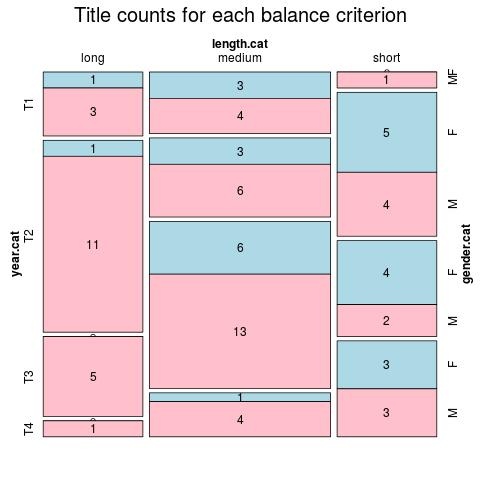
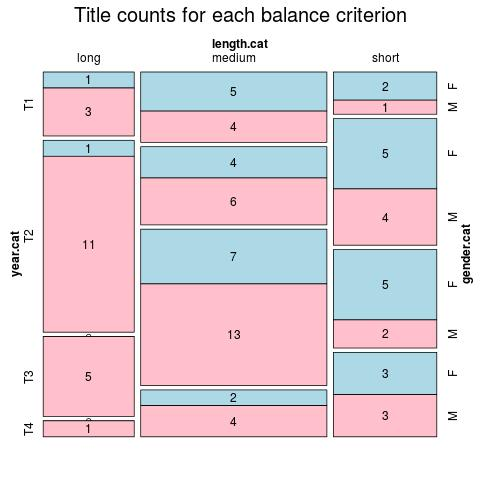
update

diff --git a/ELTeC/fra/index.html b/ELTeC/fra/index.html
@@ -5,7 +5,7 @@
       <title>Contents of ELTeC-fra</title>
    </head>
    <body>
-      <h4>On 2019-10-01 fra has 84 texts containing 6517521 words</h4>
+      <h4>On 2019-10-03 fra has 92 texts containing 6939456 words</h4>
       <p class="graphic"><img src="mosaic.png"><input type="button" value="Explainer" onclick="window.open('../explainer.html','popUpWindow',         'height=600,width=500,left=100,top=100,resizable=yes,         scrollbars=yes,toolbar=no,menubar=no,location=no,directories=no, status=yes');"></p>
       <p class="explain">Click on a column heading to sort. Click on a text identifier to read the text (may
          not work in older browsers).
@@ -868,6 +868,18 @@
             <td>low</td>
          </tr>
          <tr>
+            <td><a href="FRA18430.html">FRA18430</a></td>
+            <td>eltec-0</td>
+            <td></td>
+            <td>15058</td>
+            <td>(short) </td>
+            <td>????  (T1) </td>
+            <td>Hervé : ELTeC edition</td>
+            <td>Stern, Daniel (Marie d'Agoult)(1805-1876)</td>
+            <td>F</td>
+            <td>low</td>
+         </tr>
+         <tr>
             <td><a href="FRA18440.html">FRA18440</a></td>
             <td>eltec-0</td>
             <td>332</td>
@@ -880,6 +892,30 @@
             <td>low</td>
          </tr>
          <tr>
+            <td><a href="FRA18460.html">FRA18460</a></td>
+            <td>eltec-0</td>
+            <td></td>
+            <td>65549</td>
+            <td>(medium) </td>
+            <td>????  (T1) </td>
+            <td>Nélida : ELTeC edition</td>
+            <td>Stern, Daniel (Marie d'Agoult)(1805-1876)</td>
+            <td>F</td>
+            <td>low</td>
+         </tr>
+         <tr>
+            <td><a href="FRA18520.html">FRA18520</a></td>
+            <td>eltec-0</td>
+            <td></td>
+            <td>68770</td>
+            <td>(medium) </td>
+            <td>????  (T1) </td>
+            <td>Marguerite, ou Deux amours : ELTeC edition</td>
+            <td>Girardin, Delphine de (Delphine Gay)(1804-1855)</td>
+            <td>F</td>
+            <td>high</td>
+         </tr>
+         <tr>
             <td><a href="FRA18520.html">FRA18520</a></td>
             <td>eltec-0</td>
             <td></td>
@@ -890,6 +926,32 @@
             <td>Carraud, Zulma (1796-1889)</td>
             <td>F</td>
             <td>high</td>
+         </tr>
+         <tr>
+            <td><a href="FRA18550.html">FRA18550</a></td>
+            <td>eltec-0</td>
+            <td></td>
+            <td>36880</td>
+            <td>(short) </td>
+            <td>????  (T1) </td>
+            <td>Mademoiselle de Malepeire : ELTeC edition</td>
+            <td>Reybaud, Fanny (Hippolyte Arnaud) (1802-1871)</td>
+            <td>F</td>
+            <td>high</td>
+         </tr>
+         <tr>
+            <td><a href="FRA18660.html">FRA18660</a></td>
+            <td>eltec-0</td>
+            <td></td>
+            <td>56517</td>
+            <td>(medium) </td>
+            <td>????  (T2) </td>
+            <td>La Maxicaine : ELTeC edition</td>
+            <td>Rattazzi, Marie (Marie-Lætitia
+               Bonaparte-Wyse)(1831-1902)
+            </td>
+            <td>F</td>
+            <td>low</td>
          </tr>
          <tr>
             <td><a href="FRA18680.html">FRA18680</a></td>
@@ -940,6 +1002,34 @@
             <td>low</td>
          </tr>
          <tr>
+            <td><a href="FRA18840.html">FRA18840</a></td>
+            <td>eltec-0</td>
+            <td></td>
+            <td>38584</td>
+            <td>(short) </td>
+            <td>????  (T3) </td>
+            <td>Monsieur Vénus : ELTeC edition</td>
+            <td>Rachilde (Marguerite Vallette-Eymery)
+               (1860-1953)
+            </td>
+            <td>F</td>
+            <td>high</td>
+         </tr>
+         <tr>
+            <td><a href="FRA18870.html">FRA18870</a></td>
+            <td>eltec-0</td>
+            <td></td>
+            <td>85847</td>
+            <td>(medium) </td>
+            <td>????  (T3) </td>
+            <td>La Marquise de Sade: ELTeC edition</td>
+            <td>Rachilde (Marguerite Vallette-Eymery)
+               (1860-1953)
+            </td>
+            <td>F</td>
+            <td>high</td>
+         </tr>
+         <tr>
             <td><a href="FRA18870.html">FRA18870</a></td>
             <td>eltec-0</td>
             <td></td>
@@ -974,6 +1064,18 @@
             <td>Gautier, Judith (1845-1917)</td>
             <td>F</td>
             <td>high</td>
+         </tr>
+         <tr>
+            <td><a href="FRA19030.html">FRA19030</a></td>
+            <td>eltec-0</td>
+            <td></td>
+            <td>54730</td>
+            <td>(medium) </td>
+            <td>????  (T4) </td>
+            <td>La nouvelle espérance : ELTeC edition</td>
+            <td>Noailles, Anna de (1876-1933)</td>
+            <td>F</td>
+            <td>low</td>
          </tr>
          <tr>
             <td><a href="FRA19100.html">FRA19100</a></td>

diff --git a/ELTeC/index.html b/ELTeC/index.html
@@ -79,43 +79,43 @@ problems are much appreciated: send them to the <a href="https://github.com/dist
    <td>25</td>
 </tr><tr>
    <td class="lang"><a href="fra/index.html">fra</a></td>
-   <td>72</td>
-   <td>6035694</td>
-   <td class="sep">56</td>
-   <td>16</td>
-   <td class="sep">15</td>
+   <td>92</td>
+   <td>6939456</td>
+   <td class="sep">57</td>
    <td>35</td>
+   <td class="sep">25</td>
+   <td>45</td>
    <td>22</td>
-   <td class="sep">10</td>
-   <td>27</td>
-   <td>26</td>
-   <td>9</td>
+   <td class="sep">16</td>
+   <td>31</td>
+   <td>32</td>
+   <td>13</td>
 </tr><tr>
    <td class="lang"><a href="gre/index.html">gre</a></td>
-   <td>10</td>
-   <td>36702</td>
-   <td class="sep">9</td>
-   <td>1</td>
+   <td>11</td>
+   <td>42524</td>
    <td class="sep">10</td>
+   <td>1</td>
+   <td class="sep">11</td>
    <td>0</td>
    <td>0</td>
    <td class="sep">0</td>
-   <td>0</td>
+   <td>1</td>
    <td>6</td>
    <td>4</td>
 </tr><tr>
    <td class="lang"><a href="hun/index.html">hun</a></td>
-   <td>101</td>
-   <td>7563930</td>
+   <td>102</td>
+   <td>7641508</td>
    <td class="sep">86</td>
-   <td>15</td>
+   <td>16</td>
    <td class="sep">46</td>
-   <td>32</td>
+   <td>33</td>
    <td>23</td>
    <td class="sep">24</td>
    <td>24</td>
    <td>25</td>
-   <td>28</td>
+   <td>29</td>
 </tr><tr>
    <td class="lang"><a href="ita/index.html">ita</a></td>
    <td>34</td>
@@ -144,15 +144,15 @@ problems are much appreciated: send them to the <a href="https://github.com/dist
    <td>4</td>
 </tr><tr>
    <td class="lang"><a href="por/index.html">por</a></td>
-   <td>56</td>
-   <td>3673326</td>
-   <td class="sep">45</td>
+   <td>57</td>
+   <td>3685825</td>
+   <td class="sep">46</td>
    <td>11</td>
-   <td class="sep">26</td>
+   <td class="sep">27</td>
    <td>20</td>
    <td>10</td>
    <td class="sep">8</td>
-   <td>17</td>
+   <td>18</td>
    <td>13</td>
    <td>18</td>
 </tr><tr>
@@ -196,15 +196,15 @@ problems are much appreciated: send them to the <a href="https://github.com/dist
    <td>1</td>
 </tr><tr>
    <td class="lang"><a href="srp/index.html">srp</a></td>
-   <td>28</td>
-   <td>1074797</td>
-   <td class="sep">24</td>
+   <td>29</td>
+   <td>1087455</td>
+   <td class="sep">25</td>
    <td>4</td>
-   <td class="sep">19</td>
+   <td class="sep">20</td>
    <td>9</td>
    <td>0</td>
    <td class="sep">0</td>
    <td>1</td>
-   <td>11</td>
+   <td>12</td>
    <td>16</td>
-</tr></table><p>Last updated: 2019-09-22</p></body></html>
+</tr></table><p>Last updated: 2019-10-03</p></body></html>

diff --git a/ELTeC/eng/index.html b/ELTeC/eng/index.html
@@ -5,7 +5,7 @@
       <title>Contents of ELTeC-eng</title>
    </head>
    <body>
-      <h4>On 2019-10-01 eng has 91 texts containing 11990064 words</h4>
+      <h4>On 2019-10-03 eng has 91 texts containing 11990064 words</h4>
       <p class="graphic"><img src="mosaic.png"><input type="button" value="Explainer" onclick="window.open('../explainer.html','popUpWindow',         'height=600,width=500,left=100,top=100,resizable=yes,         scrollbars=yes,toolbar=no,menubar=no,location=no,directories=no, status=yes');"></p>
       <p class="explain">Click on a column heading to sort. Click on a text identifier to read the text (may
          not work in older browsers).

diff --git a/ELTeC/hun/index.html b/ELTeC/hun/index.html
@@ -5,7 +5,7 @@
       <title>Contents of ELTeC-hun</title>
    </head>
    <body>
-      <h4>On 2019-10-01 hun has 102 texts containing 7641508 words</h4>
+      <h4>On 2019-10-03 hun has 102 texts containing 7641508 words</h4>
       <p class="graphic"><img src="mosaic.png"><input type="button" value="Explainer" onclick="window.open('../explainer.html','popUpWindow',         'height=600,width=500,left=100,top=100,resizable=yes,         scrollbars=yes,toolbar=no,menubar=no,location=no,directories=no, status=yes');"></p>
       <p class="explain">Click on a column heading to sort. Click on a text identifier to read the text (may
          not work in older browsers).

diff --git a/ELTeC/deu/index.html b/ELTeC/deu/index.html
@@ -5,7 +5,7 @@
       <title>Contents of ELTeC-deu</title>
    </head>
    <body>
-      <h4>On 2019-10-01 deu has 44 texts containing 8422194 words</h4>
+      <h4>On 2019-10-03 deu has 44 texts containing 8422194 words</h4>
       <p class="graphic"><img src="mosaic.png"><input type="button" value="Explainer" onclick="window.open('../explainer.html','popUpWindow',         'height=600,width=500,left=100,top=100,resizable=yes,         scrollbars=yes,toolbar=no,menubar=no,location=no,directories=no, status=yes');"></p>
       <p class="explain">Click on a column heading to sort. Click on a text identifier to read the text (may
          not work in older browsers).

diff --git a/ELTeC/ita/index.html b/ELTeC/ita/index.html
@@ -5,7 +5,7 @@
       <title>Contents of ELTeC-ita</title>
    </head>
    <body>
-      <h4>On 2019-10-01 ita has 34 texts containing 3328244 words</h4>
+      <h4>On 2019-10-03 ita has 34 texts containing 3328244 words</h4>
       <p class="graphic"><img src="mosaic.png"><input type="button" value="Explainer" onclick="window.open('../explainer.html','popUpWindow',         'height=600,width=500,left=100,top=100,resizable=yes,         scrollbars=yes,toolbar=no,menubar=no,location=no,directories=no, status=yes');"></p>
       <p class="explain">Click on a column heading to sort. Click on a text identifier to read the text (may
          not work in older browsers).

diff --git a/ELTeC/nor/index.html b/ELTeC/nor/index.html
@@ -5,7 +5,7 @@
       <title>Contents of ELTeC-nor</title>
    </head>
    <body>
-      <h4>On 2019-10-01 nor has 27 texts containing 1114092 words</h4>
+      <h4>On 2019-10-03 nor has 27 texts containing 1114092 words</h4>
       <p class="graphic"><img src="mosaic.png"><input type="button" value="Explainer" onclick="window.open('../explainer.html','popUpWindow',         'height=600,width=500,left=100,top=100,resizable=yes,         scrollbars=yes,toolbar=no,menubar=no,location=no,directories=no, status=yes');"></p>
       <p class="explain">Click on a column heading to sort. Click on a text identifier to read the text (may
          not work in older browsers).

diff --git a/ELTeC/por/index.html b/ELTeC/por/index.html
@@ -5,7 +5,7 @@
       <title>Contents of ELTeC-por</title>
    </head>
    <body>
-      <h4>On 2019-10-01 por has 57 texts containing 3685825 words</h4>
+      <h4>On 2019-10-03 por has 57 texts containing 3685825 words</h4>
       <p class="graphic"><img src="mosaic.png"><input type="button" value="Explainer" onclick="window.open('../explainer.html','popUpWindow',         'height=600,width=500,left=100,top=100,resizable=yes,         scrollbars=yes,toolbar=no,menubar=no,location=no,directories=no, status=yes');"></p>
       <p class="explain">Click on a column heading to sort. Click on a text identifier to read the text (may
          not work in older browsers).

diff --git a/ELTeC/rom/index.html b/ELTeC/rom/index.html
@@ -5,7 +5,7 @@
       <title>Contents of ELTeC-rom</title>
    </head>
    <body>
-      <h4>On 2019-10-01 rom has 26 texts containing 1196258 words</h4>
+      <h4>On 2019-10-03 rom has 26 texts containing 1196258 words</h4>
       <p class="graphic"><img src="mosaic.png"><input type="button" value="Explainer" onclick="window.open('../explainer.html','popUpWindow',         'height=600,width=500,left=100,top=100,resizable=yes,         scrollbars=yes,toolbar=no,menubar=no,location=no,directories=no, status=yes');"></p>
       <p class="explain">Click on a column heading to sort. Click on a text identifier to read the text (may
          not work in older browsers).

diff --git a/ELTeC/slv/index.html b/ELTeC/slv/index.html
@@ -5,7 +5,7 @@
       <title>Contents of ELTeC-slv</title>
    </head>
    <body>
-      <h4>On 2019-10-01 slv has 72 texts containing 3894267 words</h4>
+      <h4>On 2019-10-03 slv has 72 texts containing 3894267 words</h4>
       <p class="graphic"><img src="mosaic.png"><input type="button" value="Explainer" onclick="window.open('../explainer.html','popUpWindow',         'height=600,width=500,left=100,top=100,resizable=yes,         scrollbars=yes,toolbar=no,menubar=no,location=no,directories=no, status=yes');"></p>
       <p class="explain">Click on a column heading to sort. Click on a text identifier to read the text (may
          not work in older browsers).

diff --git a/ELTeC/spa/index.html b/ELTeC/spa/index.html
@@ -5,7 +5,7 @@
       <title>Contents of ELTeC-spa</title>
    </head>
    <body>
-      <h4>On 2019-10-01 spa has 19 texts containing 2022041 words</h4>
+      <h4>On 2019-10-03 spa has 19 texts containing 2022041 words</h4>
       <p class="graphic"><img src="mosaic.png"><input type="button" value="Explainer" onclick="window.open('../explainer.html','popUpWindow',         'height=600,width=500,left=100,top=100,resizable=yes,         scrollbars=yes,toolbar=no,menubar=no,location=no,directories=no, status=yes');"></p>
       <p class="explain">Click on a column heading to sort. Click on a text identifier to read the text (may
          not work in older browsers).

diff --git a/ELTeC/srp/index.html b/ELTeC/srp/index.html
@@ -5,7 +5,7 @@
       <title>Contents of ELTeC-srp</title>
    </head>
    <body>
-      <h4>On 2019-10-01 srp has 29 texts containing 1087455 words</h4>
+      <h4>On 2019-10-03 srp has 29 texts containing 1087455 words</h4>
       <p class="graphic"><img src="mosaic.png"><input type="button" value="Explainer" onclick="window.open('../explainer.html','popUpWindow',         'height=600,width=500,left=100,top=100,resizable=yes,         scrollbars=yes,toolbar=no,menubar=no,location=no,directories=no, status=yes');"></p>
       <p class="explain">Click on a column heading to sort. Click on a text identifier to read the text (may
          not work in older browsers).
